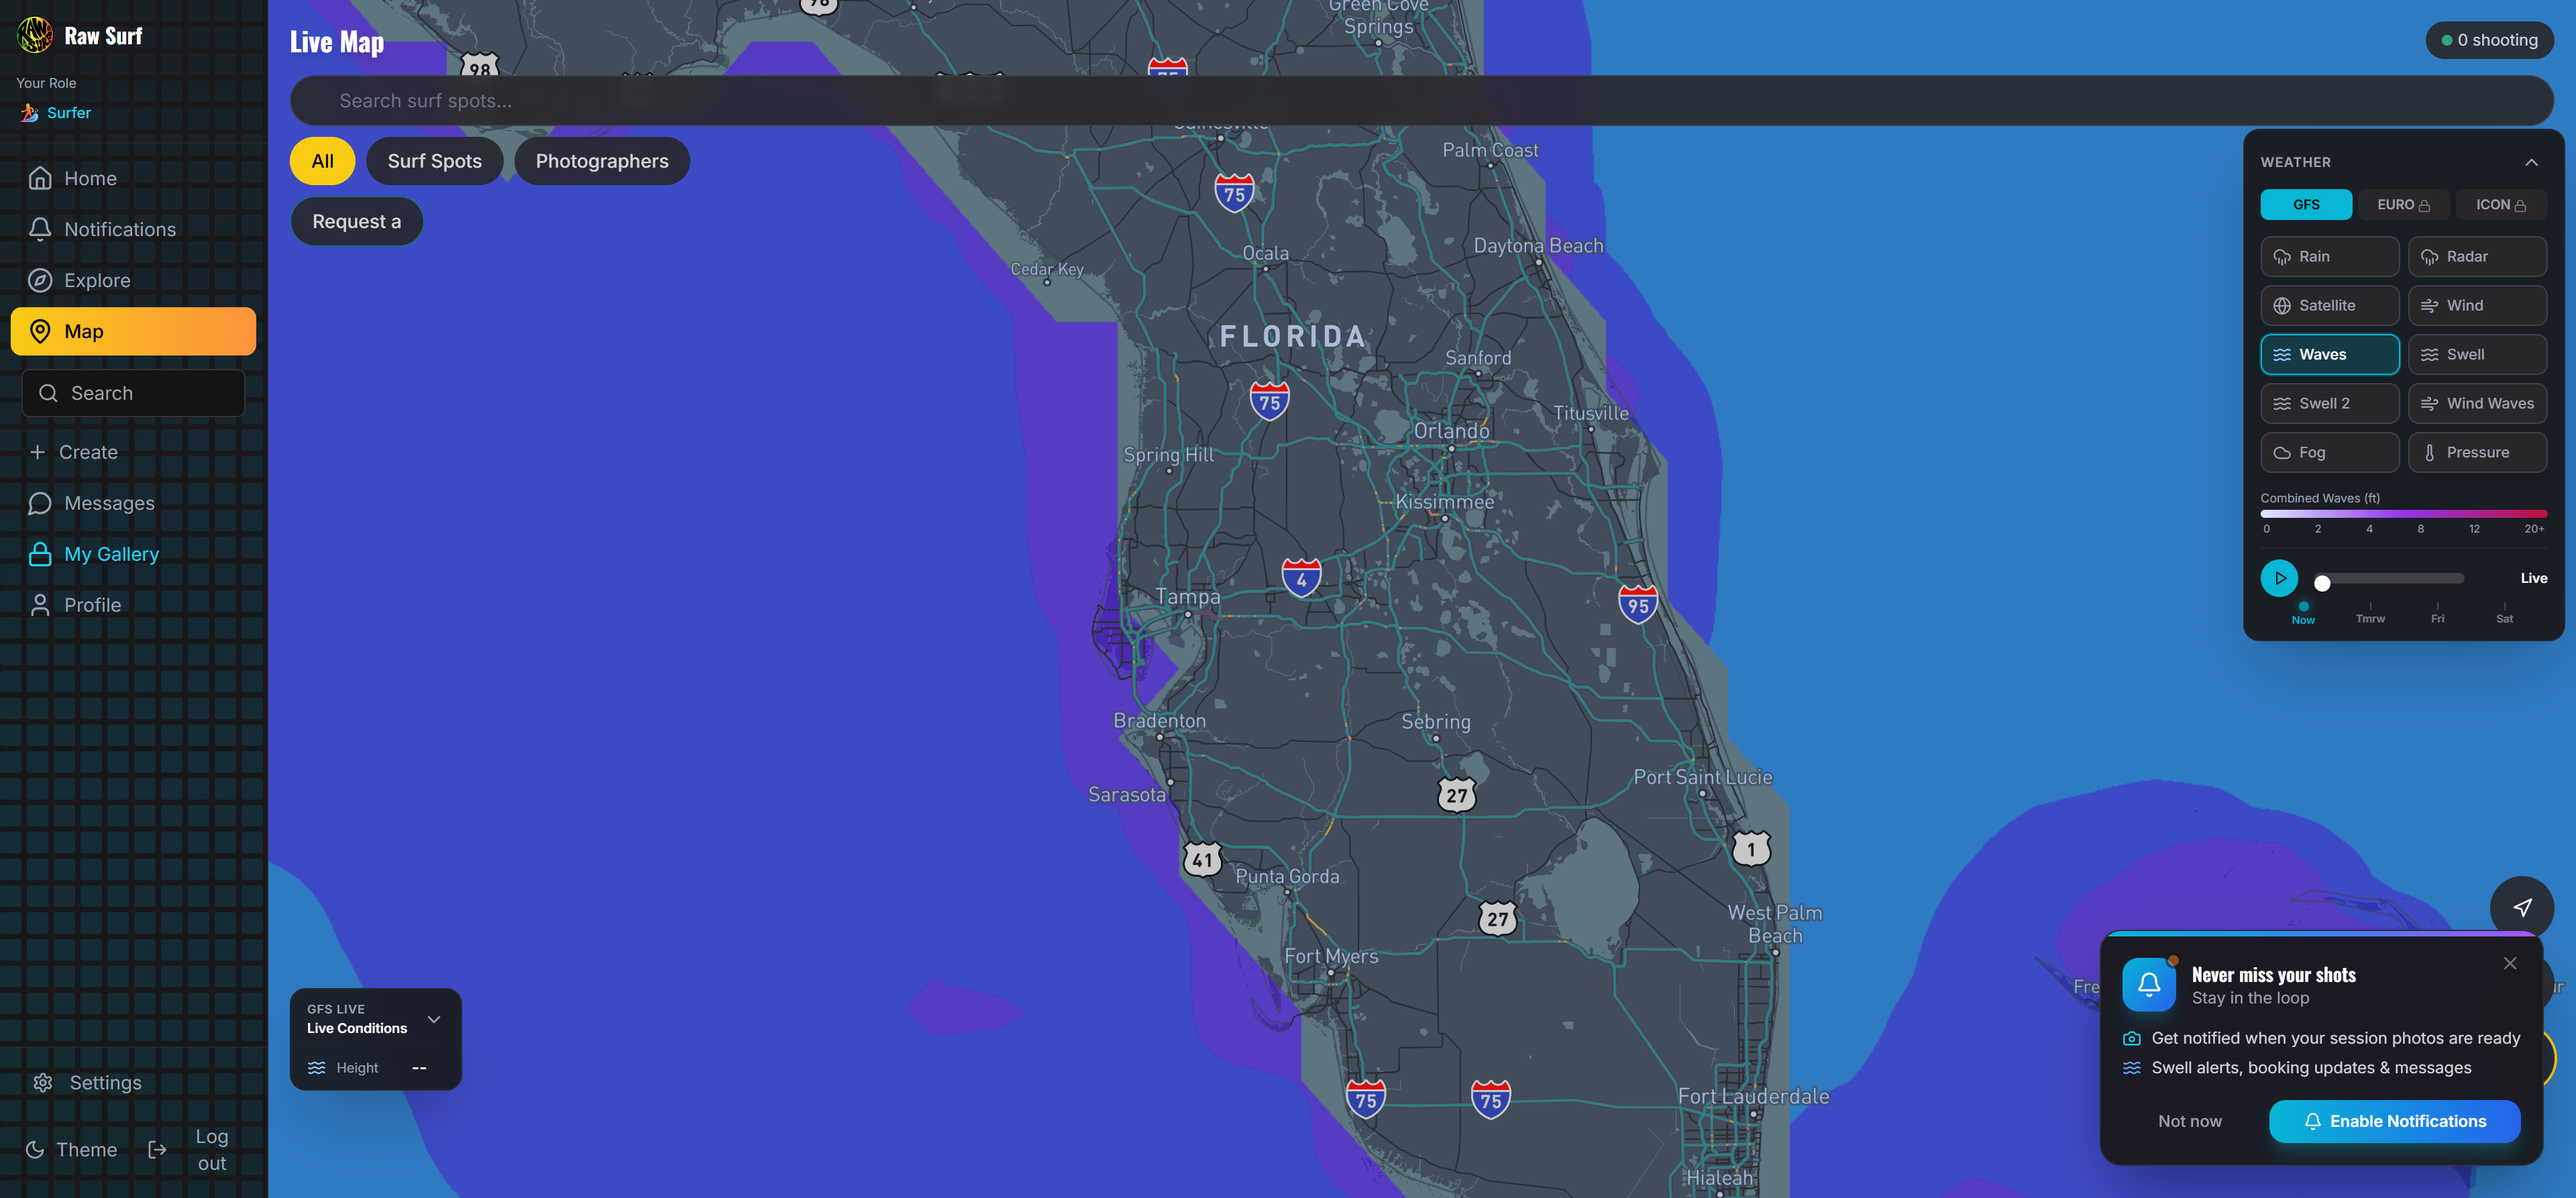
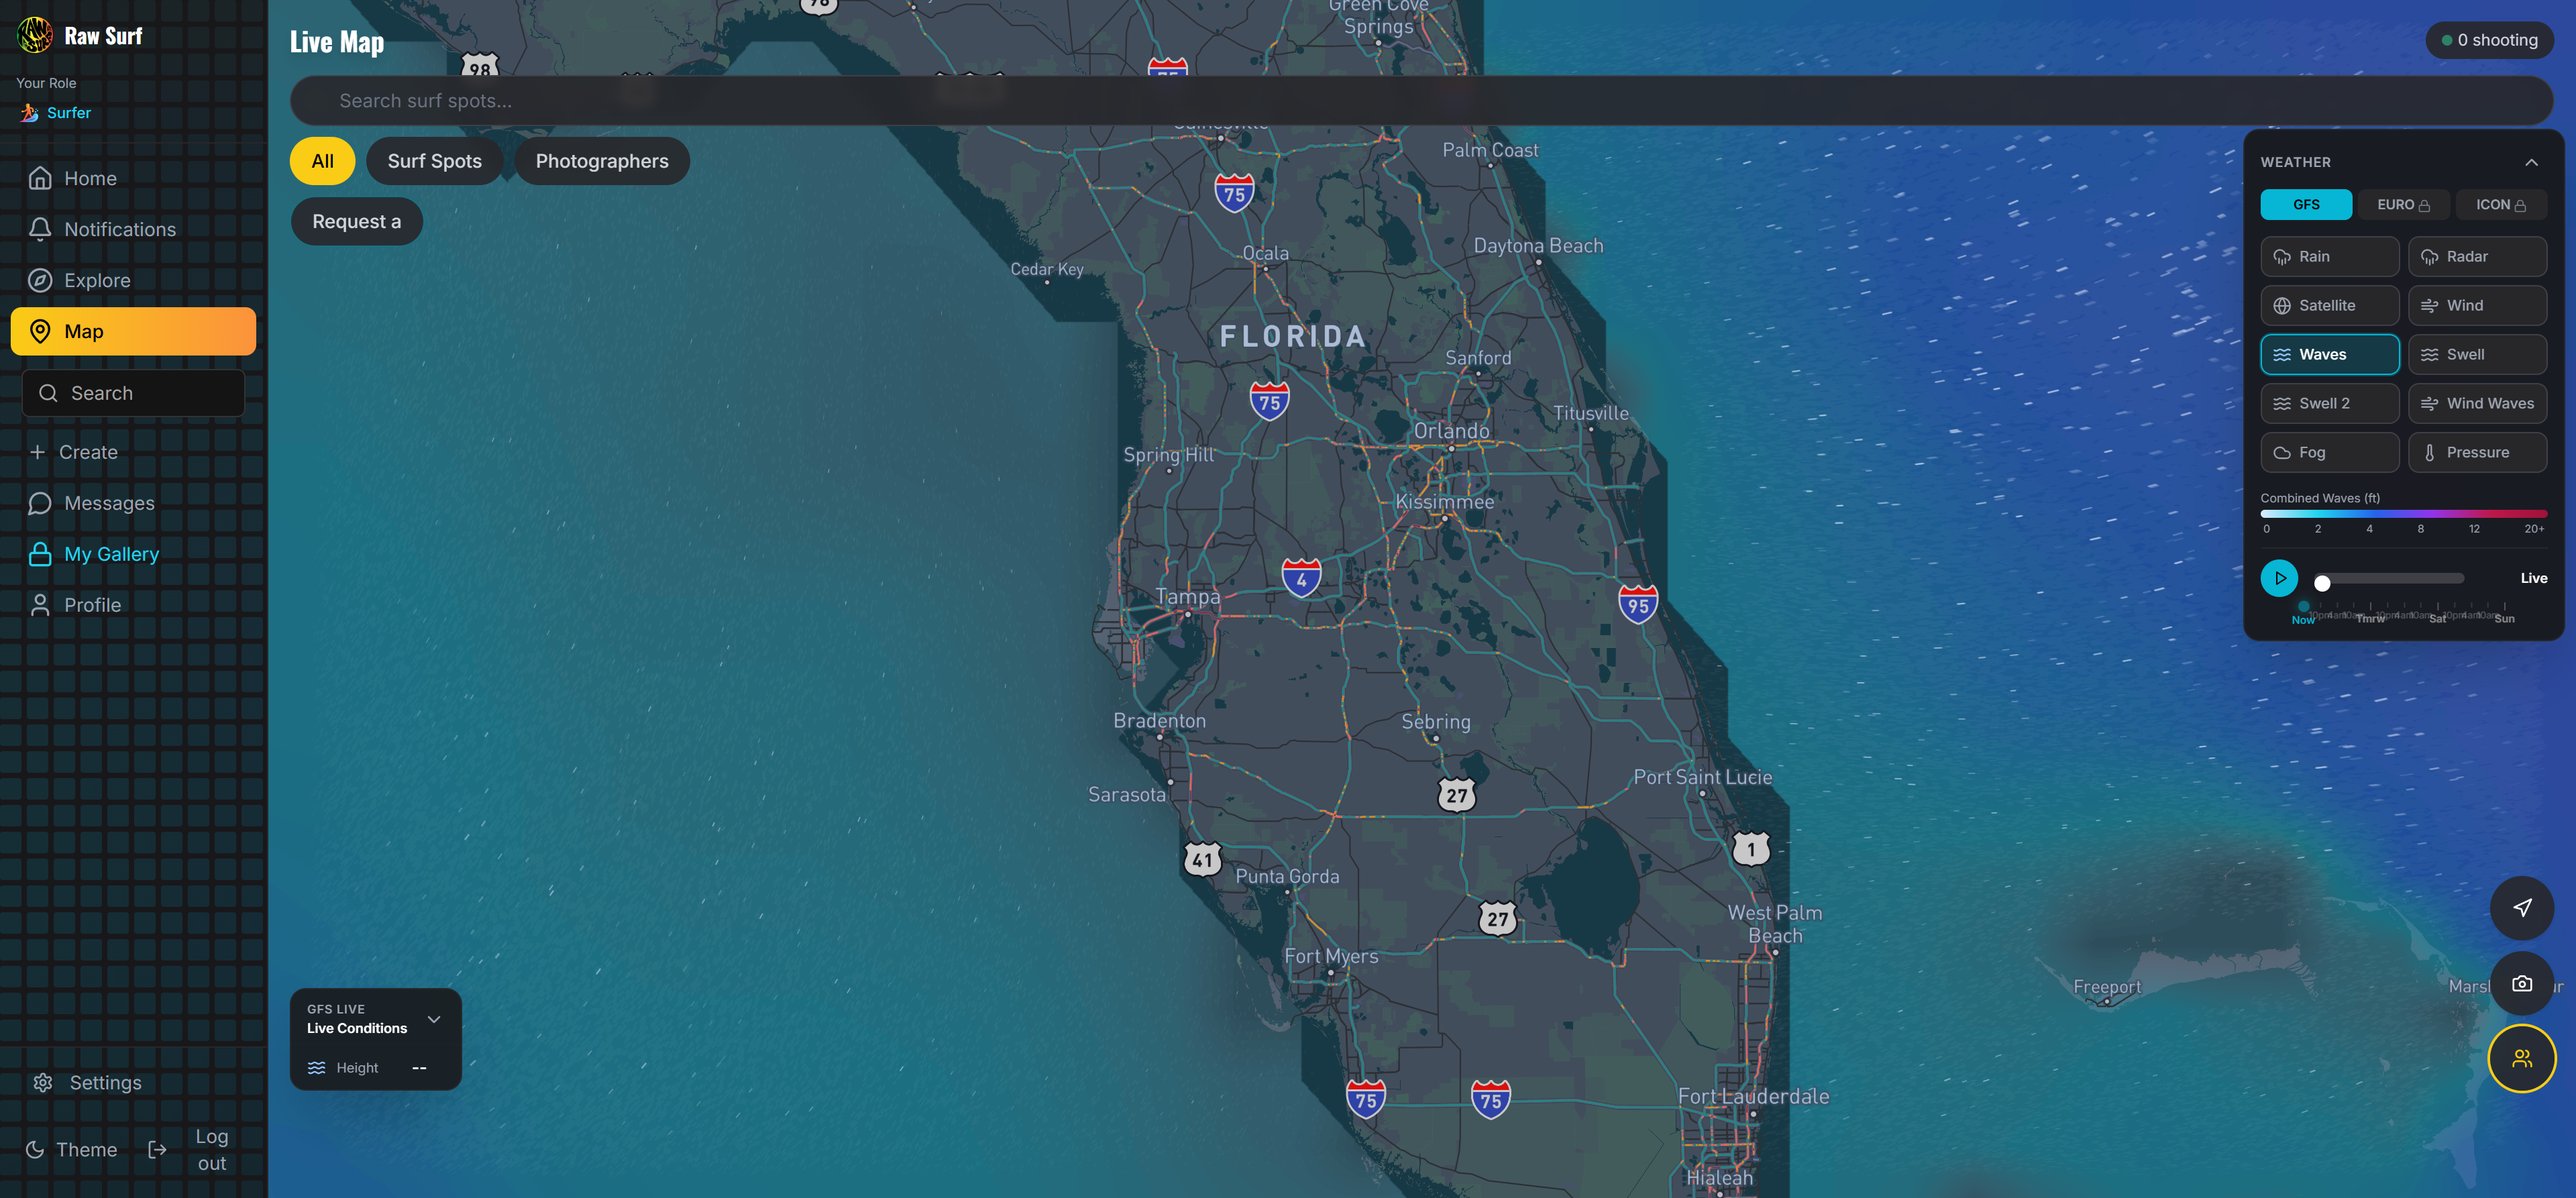
feat(map/weather): optimize weather simulation flows, anti-meridian wraps, vector coastline masking, and QA checks

diff --git a/frontend/src/components/map/MapForecastOverlay.js b/frontend/src/components/map/MapForecastOverlay.js
@@ -127,10 +127,10 @@ export var MapForecastOverlay = ({
     if (windSpeed != null) {
       const kts = windSpeed != null ? Math.round(windSpeed) : null;
       cards.push({ icon: Wind, label: isLive ? 'Live Wind' : 'Wind', value: kts != null ? `${kts} kts` : '--', color: 'text-teal-400' });
- if (windDir != null) cards.push({ icon: ArrowUp, label: degToCompass(windDir), value: `${Math.round(windDir)}`, color: 'text-teal-300', rotate: windDir });
+      if (windDir != null) cards.push({ icon: ArrowUp, label: degToCompass(windDir), value: `${Math.round(windDir)}`, color: 'text-teal-300', rotate: (windDir + 180) % 360 });
       if (windGusts != null) cards.push({ icon: Wind, label: 'Gusts', value: `${Math.round(windGusts)} kts`, color: 'text-orange-400' });
     } else {
- cards.push({ icon: Wind, label: 'Wind', value: isLoading ? 'Loading' : '--', color: 'text-gray-400' });
+      cards.push({ icon: Wind, label: 'Wind', value: isLoading ? 'Loading' : '--', color: 'text-gray-400' });
     }
   }
 
@@ -142,28 +142,28 @@ export var MapForecastOverlay = ({
     const hFt = mToFt(waveHeight);
     cards.push({ icon: Waves, label: 'Height', value: hFt != null ? `${hFt} ft` : '--', color: 'text-blue-300' });
     if (wavePeriod != null) cards.push({ icon: Waves, label: 'Period', value: `${wavePeriod.toFixed(1)}s`, color: 'text-blue-200' });
- if (waveDir != null) cards.push({ icon: ArrowUp, label: degToCompass(waveDir), value: `${Math.round(waveDir)}`, color: 'text-blue-200', rotate: waveDir });
+    if (waveDir != null) cards.push({ icon: ArrowUp, label: degToCompass(waveDir), value: `${Math.round(waveDir)}`, color: 'text-blue-200', rotate: (waveDir + 180) % 360 });
   }
 
   if (activeLayer === 'swell_1') {
     const hFt = mToFt(swell1Height);
     cards.push({ icon: Waves, label: 'Height', value: hFt != null ? `${hFt} ft` : '--', color: 'text-cyan-400' });
     if (swell1Period != null) cards.push({ icon: Waves, label: 'Period', value: `${swell1Period.toFixed(1)}s`, color: 'text-cyan-300' });
- if (swell1Dir != null) cards.push({ icon: ArrowUp, label: degToCompass(swell1Dir), value: `${Math.round(swell1Dir)}`, color: 'text-cyan-200', rotate: swell1Dir });
+    if (swell1Dir != null) cards.push({ icon: ArrowUp, label: degToCompass(swell1Dir), value: `${Math.round(swell1Dir)}`, color: 'text-cyan-200', rotate: (swell1Dir + 180) % 360 });
   }
 
   if (activeLayer === 'swell_2') {
     const hFt = mToFt(swell2Height);
     cards.push({ icon: Waves, label: 'Height', value: hFt != null ? `${hFt} ft` : '--', color: 'text-purple-400' });
     if (swell2Period != null) cards.push({ icon: Waves, label: 'Period', value: `${swell2Period.toFixed(1)}s`, color: 'text-purple-300' });
- if (swell2Dir != null) cards.push({ icon: ArrowUp, label: degToCompass(swell2Dir), value: `${Math.round(swell2Dir)}`, color: 'text-purple-200', rotate: swell2Dir });
+    if (swell2Dir != null) cards.push({ icon: ArrowUp, label: degToCompass(swell2Dir), value: `${Math.round(swell2Dir)}`, color: 'text-purple-200', rotate: (swell2Dir + 180) % 360 });
   }
 
   if (activeLayer === 'wind_waves') {
     const hFt = mToFt(windWaveHeight);
     cards.push({ icon: Wind, label: 'Height', value: hFt != null ? `${hFt} ft` : '--', color: 'text-emerald-400' });
     if (windWavePeriod != null) cards.push({ icon: Wind, label: 'Period', value: `${windWavePeriod.toFixed(1)}s`, color: 'text-emerald-300' });
- if (windWaveDir != null) cards.push({ icon: ArrowUp, label: degToCompass(windWaveDir), value: `${Math.round(windWaveDir)}`, color: 'text-emerald-200', rotate: windWaveDir });
+    if (windWaveDir != null) cards.push({ icon: ArrowUp, label: degToCompass(windWaveDir), value: `${Math.round(windWaveDir)}`, color: 'text-emerald-200', rotate: (windWaveDir + 180) % 360 });
   }
 
   if (cards.length === 0) return null;
@@ -232,8 +232,8 @@ export var MapForecastOverlay = ({
               return (
                 <div key={i} className="flex items-center gap-2">
                   <Icon
-                    className={`w-3.5 h-3.5 ${card.color} shrink-0`}
-                    style={card.rotate ? { transform: `rotate(${card.rotate}deg)` } : undefined}
+                    className={`w-3.5 h-3.5 ${card.color} shrink-0 inline-block`}
+                    style={card.rotate ? { transform: `rotate(${card.rotate}deg)`, transformOrigin: 'center' } : undefined}
                   />
                   <span className={`text-[10px] ${textMuted} w-12`}>{card.label}</span>
                   <span className={`text-xs font-bold ${textClass}`}>{card.value}</span>

diff --git a/frontend/src/components/map/GPUMarineLayer.js b/frontend/src/components/map/GPUMarineLayer.js
@@ -38,12 +38,13 @@ function interpolateMarine(grid, lng, lat) {
   const { west, south, east, north } = bounds;
   if (!cols || !rows || vectors.length !== cols * rows) return { u: 0, v: 0, speed: 0 };
 
-  // v3.6: Normalize longitude for wrap-aware interpolation
-  let nLng = lng;
-  while (nLng > 180) nLng -= 360;
-  while (nLng < -180) nLng += 360;
+  // Wrap query longitude to grid bounds coordinate space
+  const center = (west + east) / 2;
+  let gLng = lng;
+  while (gLng - center > 180) gLng -= 360;
+  while (gLng - center < -180) gLng += 360;
 
-  const gx = Math.max(0, Math.min(cols - 1, ((nLng - west) / (east - west)) * (cols - 1)));
+  const gx = Math.max(0, Math.min(cols - 1, ((gLng - west) / (east - west)) * (cols - 1)));
   const gy = Math.max(0, Math.min(rows - 1, ((lat - south) / (north - south)) * (rows - 1)));
   const xi = Math.max(0, Math.min(cols - 2, Math.floor(gx)));
   const yi = Math.max(0, Math.min(rows - 2, Math.floor(gy)));
@@ -70,26 +71,25 @@ function interpolateMarine(grid, lng, lat) {
  */
 function isLikelyOcean(lat, lng, grid) {
   if (!grid?.vectors?.length) return false;
-  let nLng = lng;
-  while (nLng > 180) nLng -= 360;
-  while (nLng < -180) nLng += 360;
   if (lat < -85 || lat > 85) return false;
 
   const { vectors, bounds, cols, rows } = grid;
-  // Strict bounding box check to prevent snapping to ocean edge cells when outside data bounds
-  let inside = false;
-  if (bounds.west <= bounds.east) {
-    inside = (nLng >= bounds.west && nLng <= bounds.east);
-  } else {
-    inside = (nLng >= bounds.west || nLng <= bounds.east);
-  }
-  if (!inside || lat < bounds.south || lat > bounds.north) {
+  const { west, south, east, north } = bounds;
+
+  // Wrap query longitude to grid bounds coordinate space
+  const center = (west + east) / 2;
+  let gLng = lng;
+  while (gLng - center > 180) gLng -= 360;
+  while (gLng - center < -180) gLng += 360;
+
+  // Since grid bounds are continuous, check directly against the wrapped gLng
+  if (gLng < west || gLng > east || lat < south || lat > north) {
     return false;
   }
 
-  // Nearest-neighbour cell lookup
-  const gx = Math.round(((nLng - bounds.west) / (bounds.east - bounds.west)) * (cols - 1));
-  const gy = Math.round(((lat - bounds.south) / (bounds.north - bounds.south)) * (rows - 1));
+  // Nearest-neighbour cell lookup using grid bounds coordinate space
+  const gx = Math.round(((gLng - west) / (east - west)) * (cols - 1));
+  const gy = Math.round(((lat - south) / (north - south)) * (rows - 1));
   
   if (gx < 0 || gx >= cols || gy < 0 || gy >= rows) return false;
 
@@ -535,7 +535,8 @@ export function MarineParticleCanvas({ mapInstance, active, data, revision, id =
         position: 'absolute', top: 0, left: 0,
         width: '100%', height: '100%',
         pointerEvents: 'none', zIndex: 5,
-        opacity: 0, transition: 'none'
+        opacity: active ? 1 : 0,
+        transition: 'opacity 0.3s ease'
       }}
     />
   );

diff --git a/frontend/src/components/map/marineController.js b/frontend/src/components/map/marineController.js
@@ -312,12 +312,24 @@ export async function fetchWindData(bounds, signal, hourOffset = 0, forceFetch =
     return lastKnownGoodWind;
   }
 
+  // Adjust for Antimeridian / Pacific wrap (ensure east is always greater than west)
+  let west = bounds.west;
+  let east = bounds.east;
+  if (east < west) {
+    east += 360;
+  }
+
   // Snap bounds
   const { snap, padding } = getSnapConfig(bounds);
-  const latMin = Math.max(-85, Math.floor((bounds.south - padding) / snap) * snap);
-  const latMax = Math.min(85, Math.ceil((bounds.north + padding) / snap) * snap);
-  const lngMin = Math.floor((bounds.west - padding) / snap) * snap;
-  const lngMax = Math.ceil((bounds.east + padding) / snap) * snap;
+  const latMinRaw = Math.floor((bounds.south - padding) / snap) * snap;
+  const latMaxRaw = Math.ceil((bounds.north + padding) / snap) * snap;
+  const lngMin = Math.floor((west - padding) / snap) * snap;
+  const lngMax = Math.ceil((east + padding) / snap) * snap;
+
+  // Clamp requested latitudes to Open-Meteo weather API limits [-85, 85]
+  const latMin = Math.max(-85, Math.min(85, latMinRaw));
+  const latMax = Math.max(-85, Math.min(85, latMaxRaw));
+
   if (latMax <= latMin || lngMax <= lngMin) return lastKnownGoodWind;
 
   const snappedBounds = { west: lngMin, south: latMin, east: lngMax, north: latMax };
@@ -529,12 +541,24 @@ export async function fetchMarineData(bounds, zoom, signal, hourOffset = 0, forc
     return lastKnownGoodMarine;
   }
 
+  // Adjust for Antimeridian / Pacific wrap (ensure east is always greater than west)
+  let west = bounds.west;
+  let east = bounds.east;
+  if (east < west) {
+    east += 360;
+  }
+
   // Snap bounds dynamically
   const { snap, padding } = getSnapConfig(bounds);
-  const latMin = Math.max(-70, Math.floor((bounds.south - padding) / snap) * snap);
-  const latMax = Math.min(70, Math.ceil((bounds.north + padding) / snap) * snap);
-  const lngMin = Math.floor((bounds.west - padding) / snap) * snap;
-  const lngMax = Math.ceil((bounds.east + padding) / snap) * snap;
+  const latMinRaw = Math.floor((bounds.south - padding) / snap) * snap;
+  const latMaxRaw = Math.ceil((bounds.north + padding) / snap) * snap;
+  const lngMin = Math.floor((west - padding) / snap) * snap;
+  const lngMax = Math.ceil((east + padding) / snap) * snap;
+
+  // Clamp requested latitudes to Open-Meteo marine API limits [-80, 80]
+  const latMin = Math.max(-80, Math.min(80, latMinRaw));
+  const latMax = Math.max(-80, Math.min(80, latMaxRaw));
+
   if (latMax <= latMin || lngMax <= lngMin) return lastKnownGoodMarine;
 
   const snappedBounds = { west: lngMin, south: latMin, east: lngMax, north: latMax };

diff --git a/frontend/src/components/map/OceanMask.js b/frontend/src/components/map/OceanMask.js
@@ -147,6 +147,7 @@ export function OceanMask({ mapInstance, activeMarineLayer, theme, beforeId }) {
         }
 
         const insertBeforeId = beforeId || findMarineInsertionLayer(mapInstance);
+        const waterFilter = ['match', ['get', 'class'], ['lake', 'river', 'canal', 'stream', 'reservoir', 'pool', 'pond', 'spring', 'waterfall'], false, true];
 
         // Layer 1: Coastline buffer shifted INWARD (into water) to mask GFS staircasing beautifully
         if (!hasBuf) {
@@ -156,6 +157,7 @@ export function OceanMask({ mapInstance, activeMarineLayer, theme, beforeId }) {
               type: 'line',
               source: vectorSourceId,
               'source-layer': 'water',
+              filter: waterFilter,
               paint: {
                 'line-color': targetOceanColor,
                 'line-width': ['interpolate', ['linear'], ['zoom'],
@@ -198,6 +200,7 @@ export function OceanMask({ mapInstance, activeMarineLayer, theme, beforeId }) {
         } else {
           try {
             if (insertBeforeId) safeMoveLayer(mapInstance, MASK_BUFFER, insertBeforeId);
+            mapInstance.setFilter(MASK_BUFFER, waterFilter);
             mapInstance.setPaintProperty(MASK_BUFFER, 'line-color', targetOceanColor);
             mapInstance.setPaintProperty(MASK_BUFFER, 'line-width', ['interpolate', ['linear'], ['zoom'],
               1, 10,
@@ -241,6 +244,7 @@ export function OceanMask({ mapInstance, activeMarineLayer, theme, beforeId }) {
               type: 'line',
               source: vectorSourceId,
               'source-layer': 'water',
+              filter: waterFilter,
               paint: {
                 'line-color': tc.line,
                 'line-width': ['interpolate', ['linear'], ['zoom'],
@@ -260,6 +264,7 @@ export function OceanMask({ mapInstance, activeMarineLayer, theme, beforeId }) {
         } else {
           try {
             if (insertBeforeId) safeMoveLayer(mapInstance, MASK_LINE, insertBeforeId);
+            mapInstance.setFilter(MASK_LINE, waterFilter);
             mapInstance.setPaintProperty(MASK_LINE, 'line-color', tc.line);
             mapInstance.setPaintProperty(MASK_LINE, 'line-width', ['interpolate', ['linear'], ['zoom'],
               2, tc.lw * 0.5, 6, tc.lw, 10, tc.lw * 1.5,

diff --git a/frontend/src/components/map/WindParticleOverlay.js b/frontend/src/components/map/WindParticleOverlay.js
@@ -21,7 +21,7 @@ var ACTIVE_WIND_ENGINES = new Set();
 
 // --- VISUAL TUNING (Ventusky-parity) ---
 // Slow fade = long vapor trails. Must balance with particle count.
-var TRAIL_FADE = 0.018;
+var TRAIL_FADE = 0.015;
 var TRAIL_FADE_THROTTLED = 0.05;
 
 /**
@@ -43,13 +43,14 @@ function interpolateWind(grid, lng, lat) {
   var lngSpan = east - west, latSpan = north - south;
   if (lngSpan === 0 || latSpan === 0) return { u: 0, v: 0, speed: 0 };
 
-  // Normalize query lng
-  var nLng = lng;
-  while (nLng > 180) nLng -= 360;
-  while (nLng < -180) nLng += 360;
+  // Wrap query longitude to grid bounds coordinate space
+  var center = (west + east) / 2;
+  var gLng = lng;
+  while (gLng - center > 180) gLng -= 360;
+  while (gLng - center < -180) gLng += 360;
 
- // Compute grid position CLAMP instead of reject
-  var gx = ((nLng - west) / lngSpan) * (cols - 1);
+  // Compute grid position CLAMP instead of reject
+  var gx = ((gLng - west) / lngSpan) * (cols - 1);
   var gy = ((lat - south) / latSpan) * (rows - 1);
   gx = Math.max(0, Math.min(cols - 1.001, gx));
   gy = Math.max(0, Math.min(rows - 1.001, gy));

diff --git a/test_reports/qa_companion_report.md b/test_reports/qa_companion_report.md
@@ -1,6 +1,6 @@
 # QA Companion Report (Auto-Updated)
-**Generated:** 2026-05-20T02:45:05
-**Trigger:** 
+**Generated:** 2026-05-22T00:54:48
+**Trigger:** (startup)
 **Environment:** dev (branch: dev)
 **Frontend Under Test:** https://dev--rawsurf.netlify.app
 **Backend Under Test:** https://raw-surf-antigravity.onrender.com
@@ -14,7 +14,7 @@
 
 | Tool | Status | Detail |
 |------|--------|--------|
-| ESLint | PASS | 0 errors, 1 warnings |
+| ESLint | PASS | 0 errors, 0 warnings |
 | Ruff | PASS | Python backend lint |
 | pytest | PASS | 0 passed, 0 failed |
 
